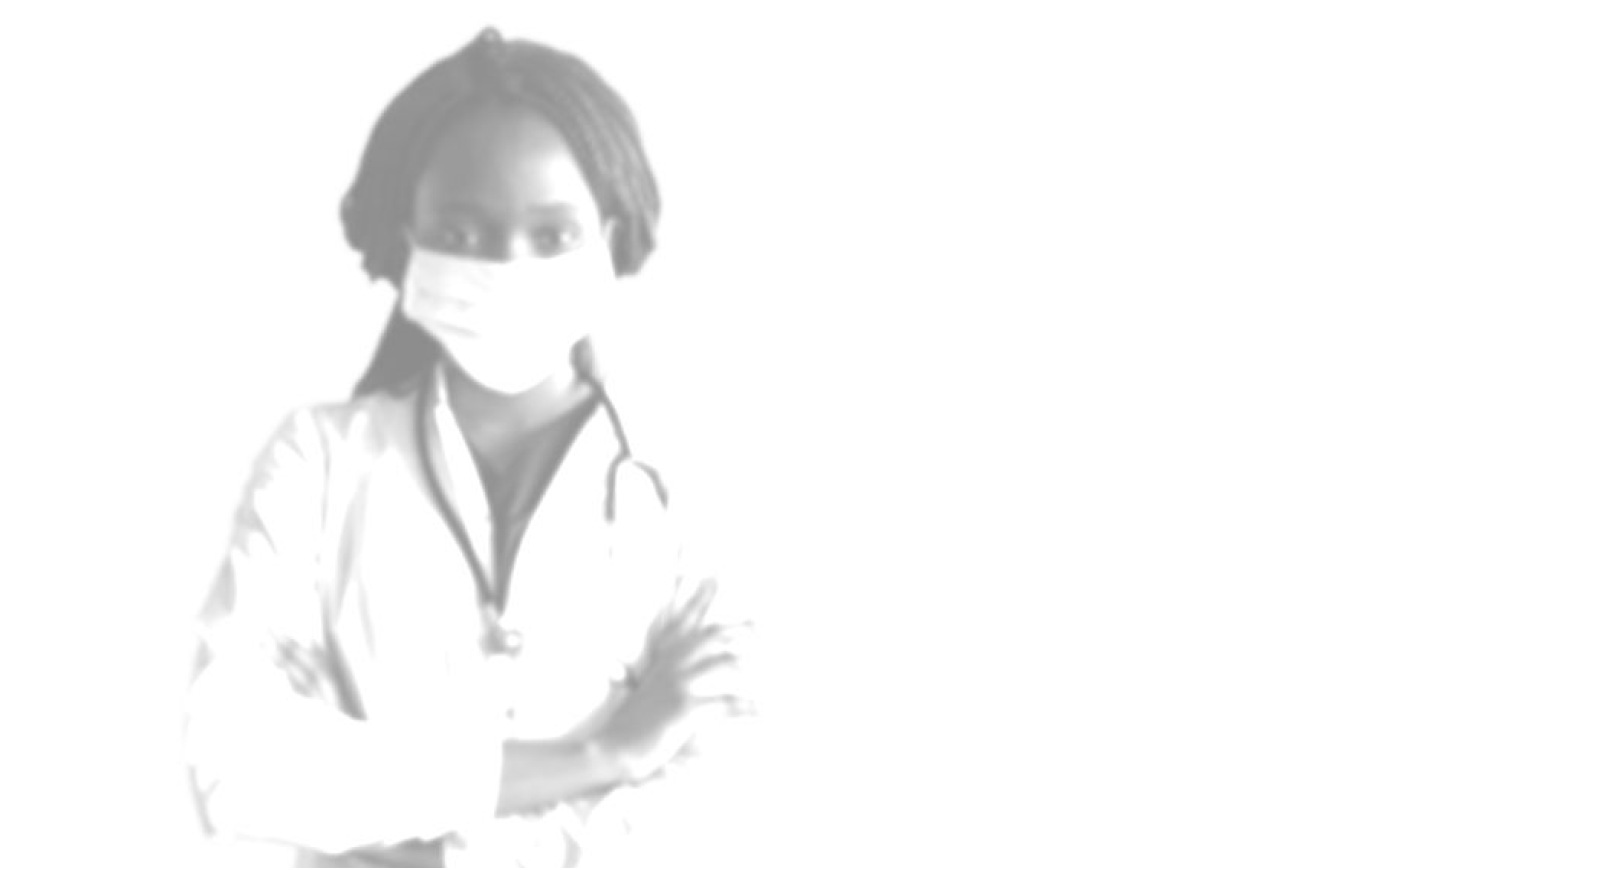
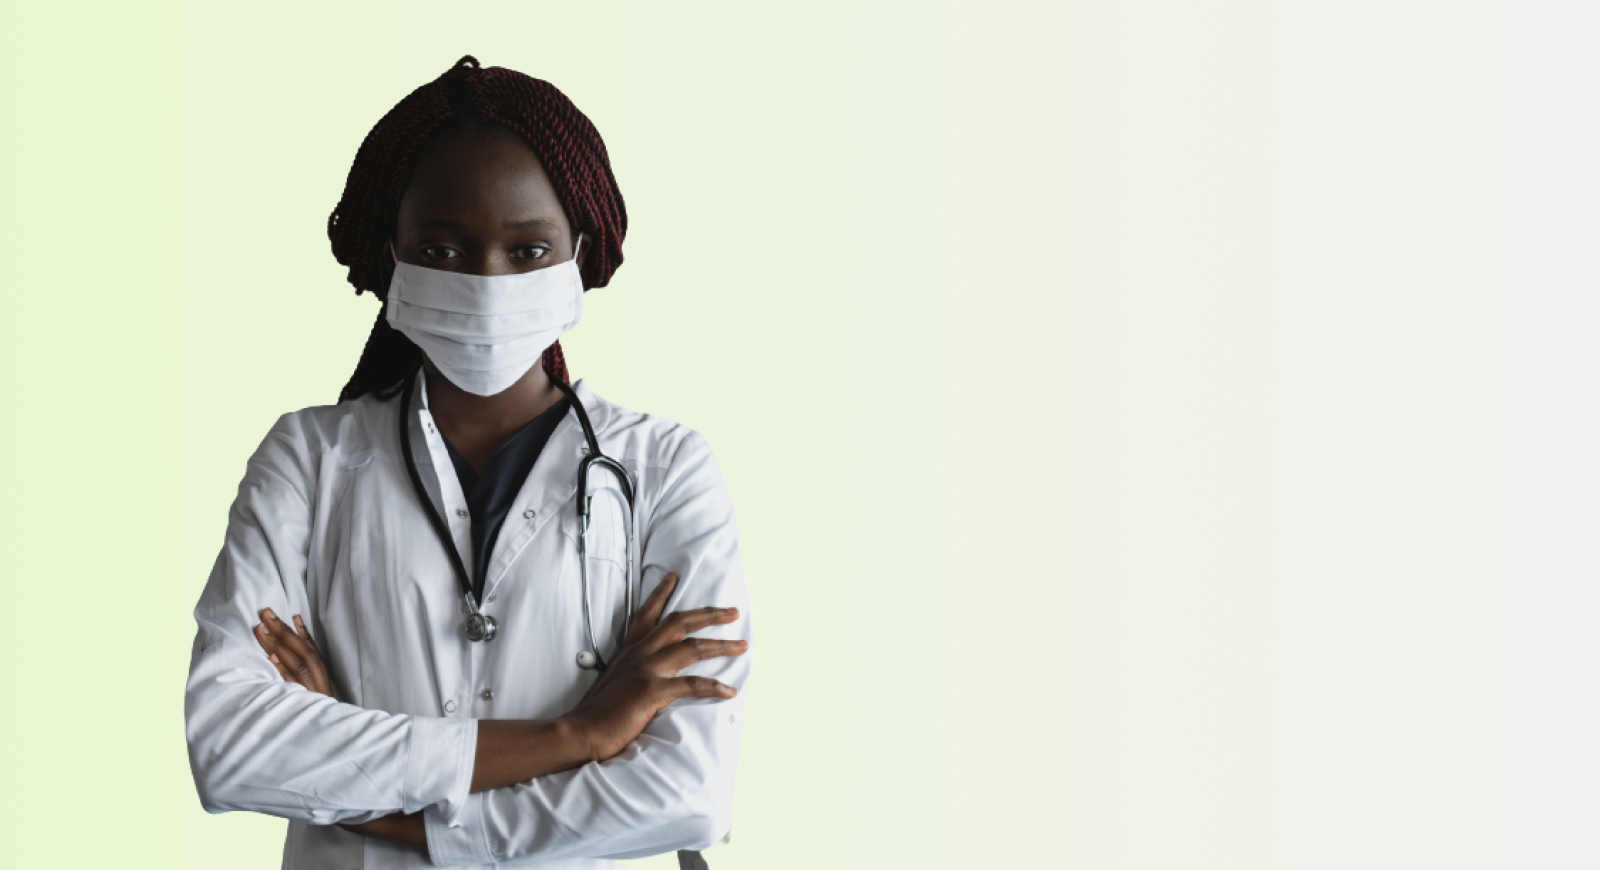
feat: add hero bg images

diff --git a/css/style.css b/css/style.css
@@ -57,7 +57,7 @@ body {
 /*header section*/
 .hero_area {
   height: 100vh;
-  background-image: url(../images/Frame2.png);
+  background-image: url(../images/Frame1.png);
   background-size: cover;
   position: relative;
   background-repeat: no-repeat;
